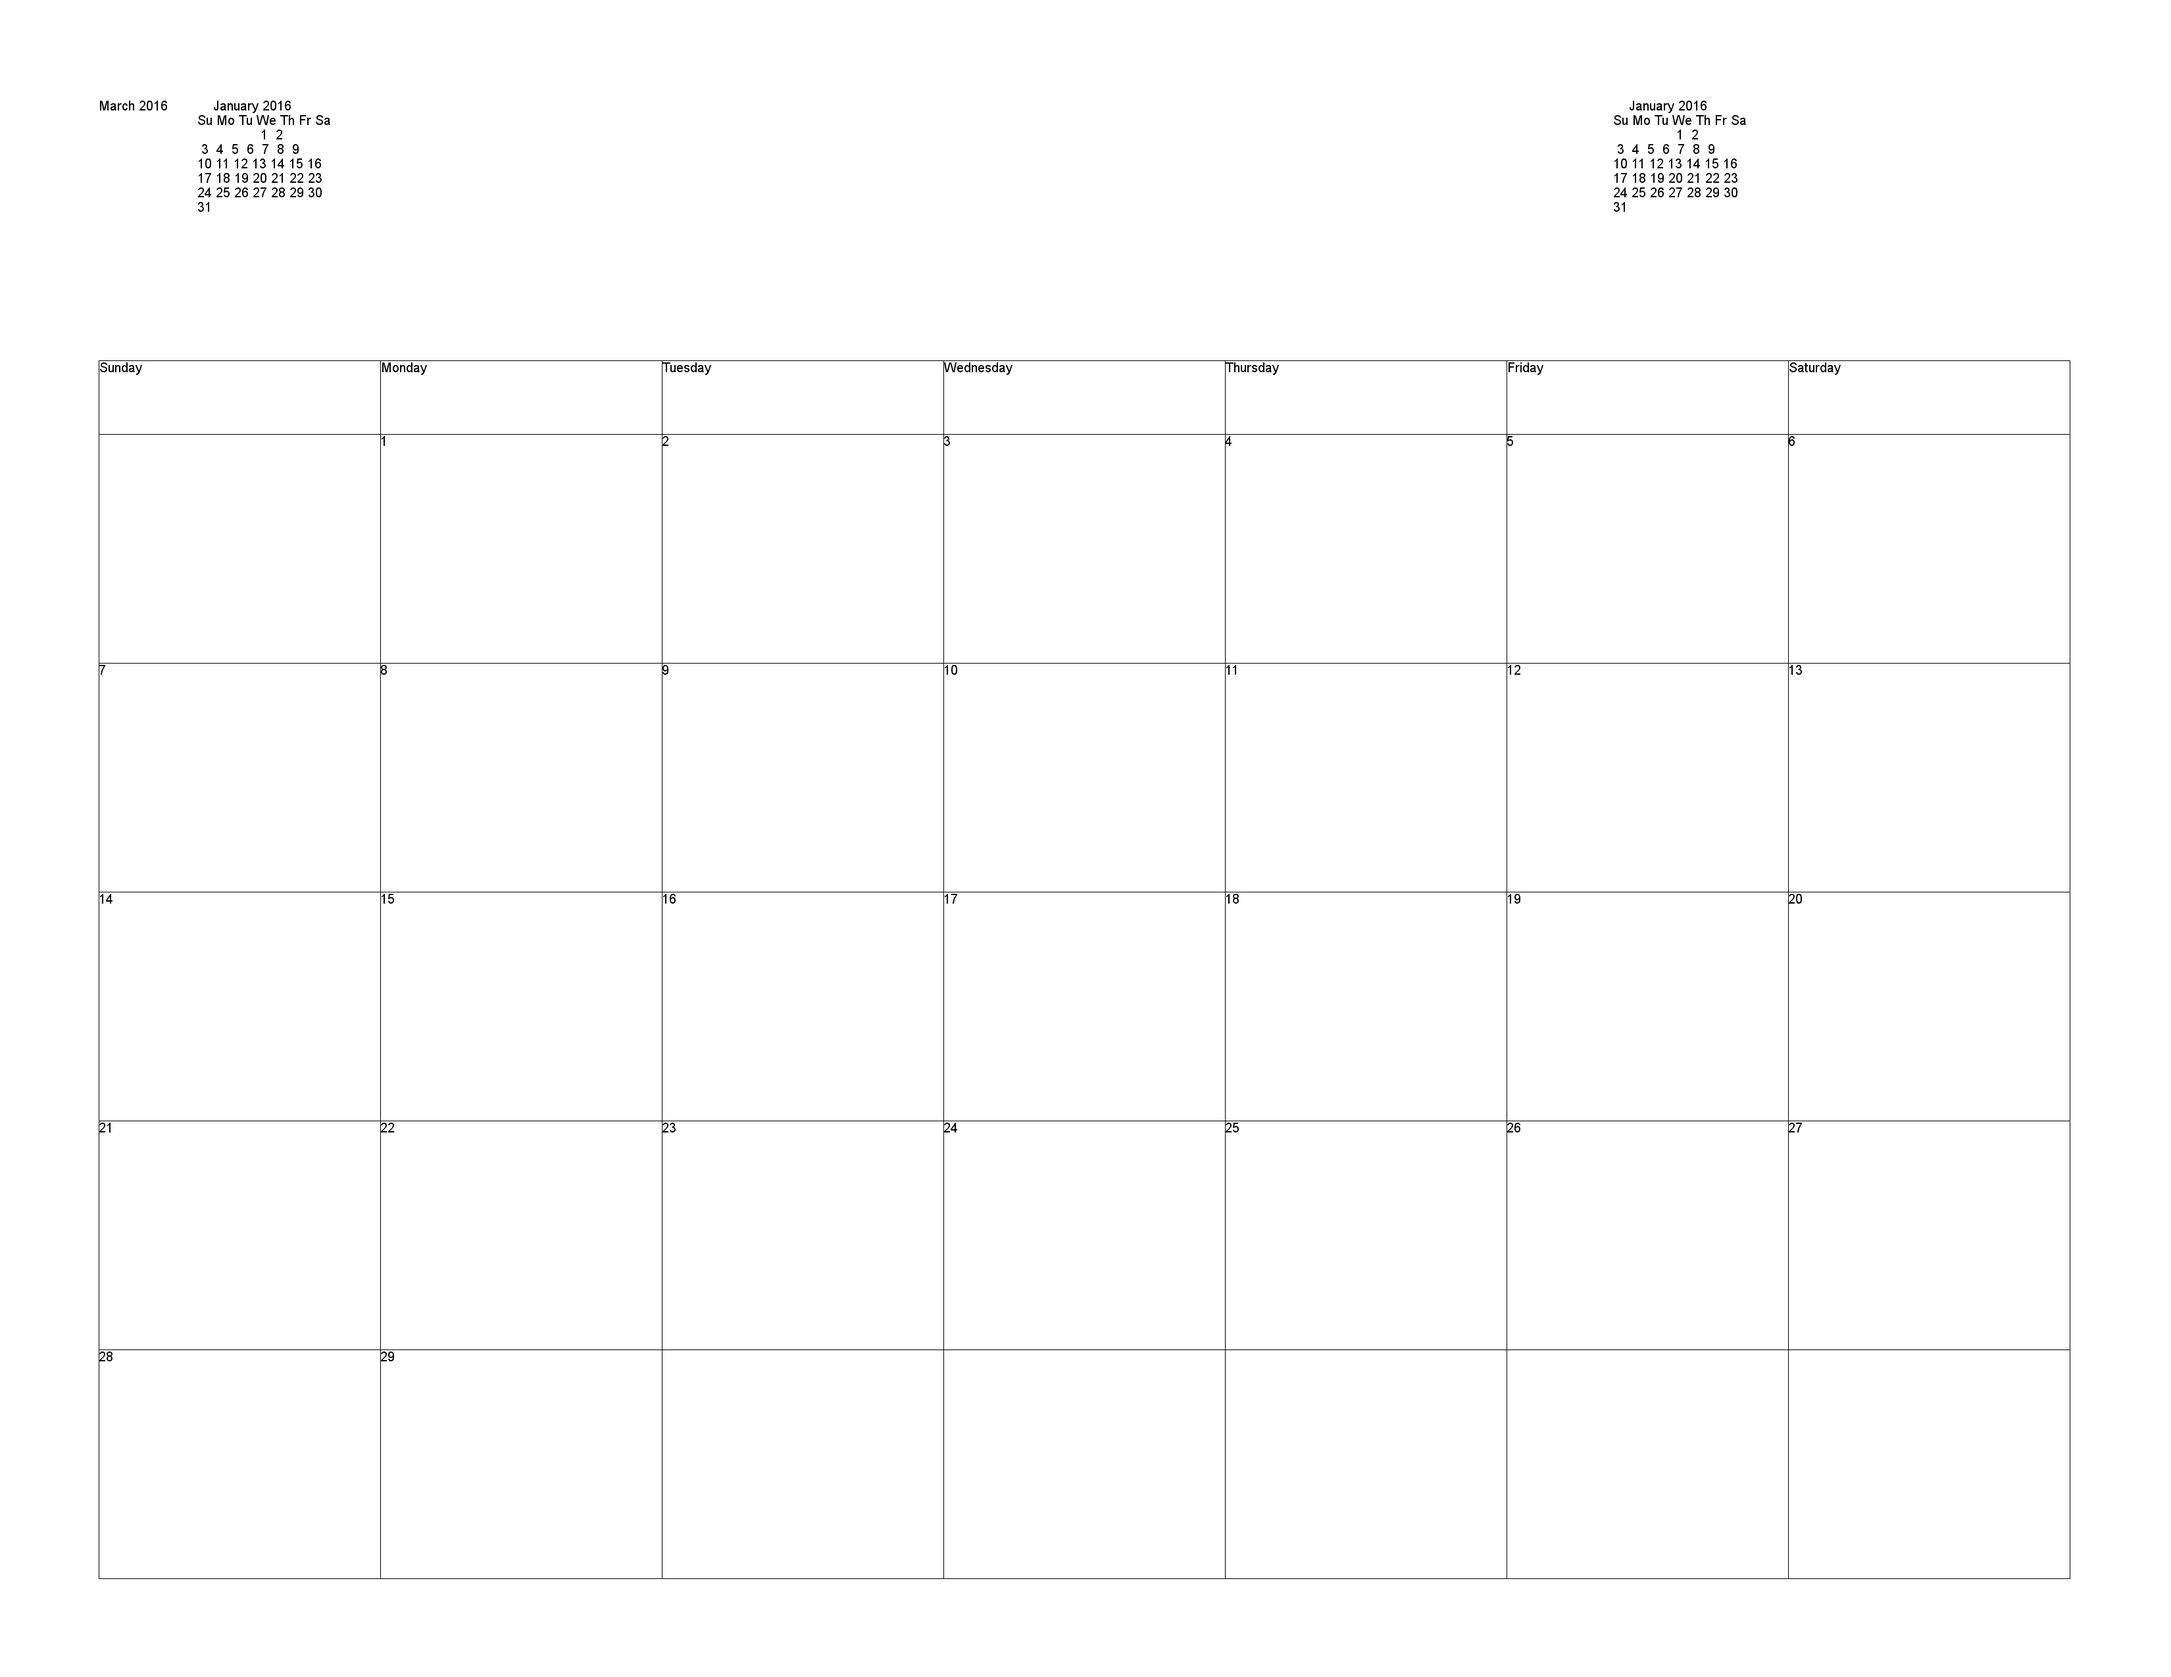
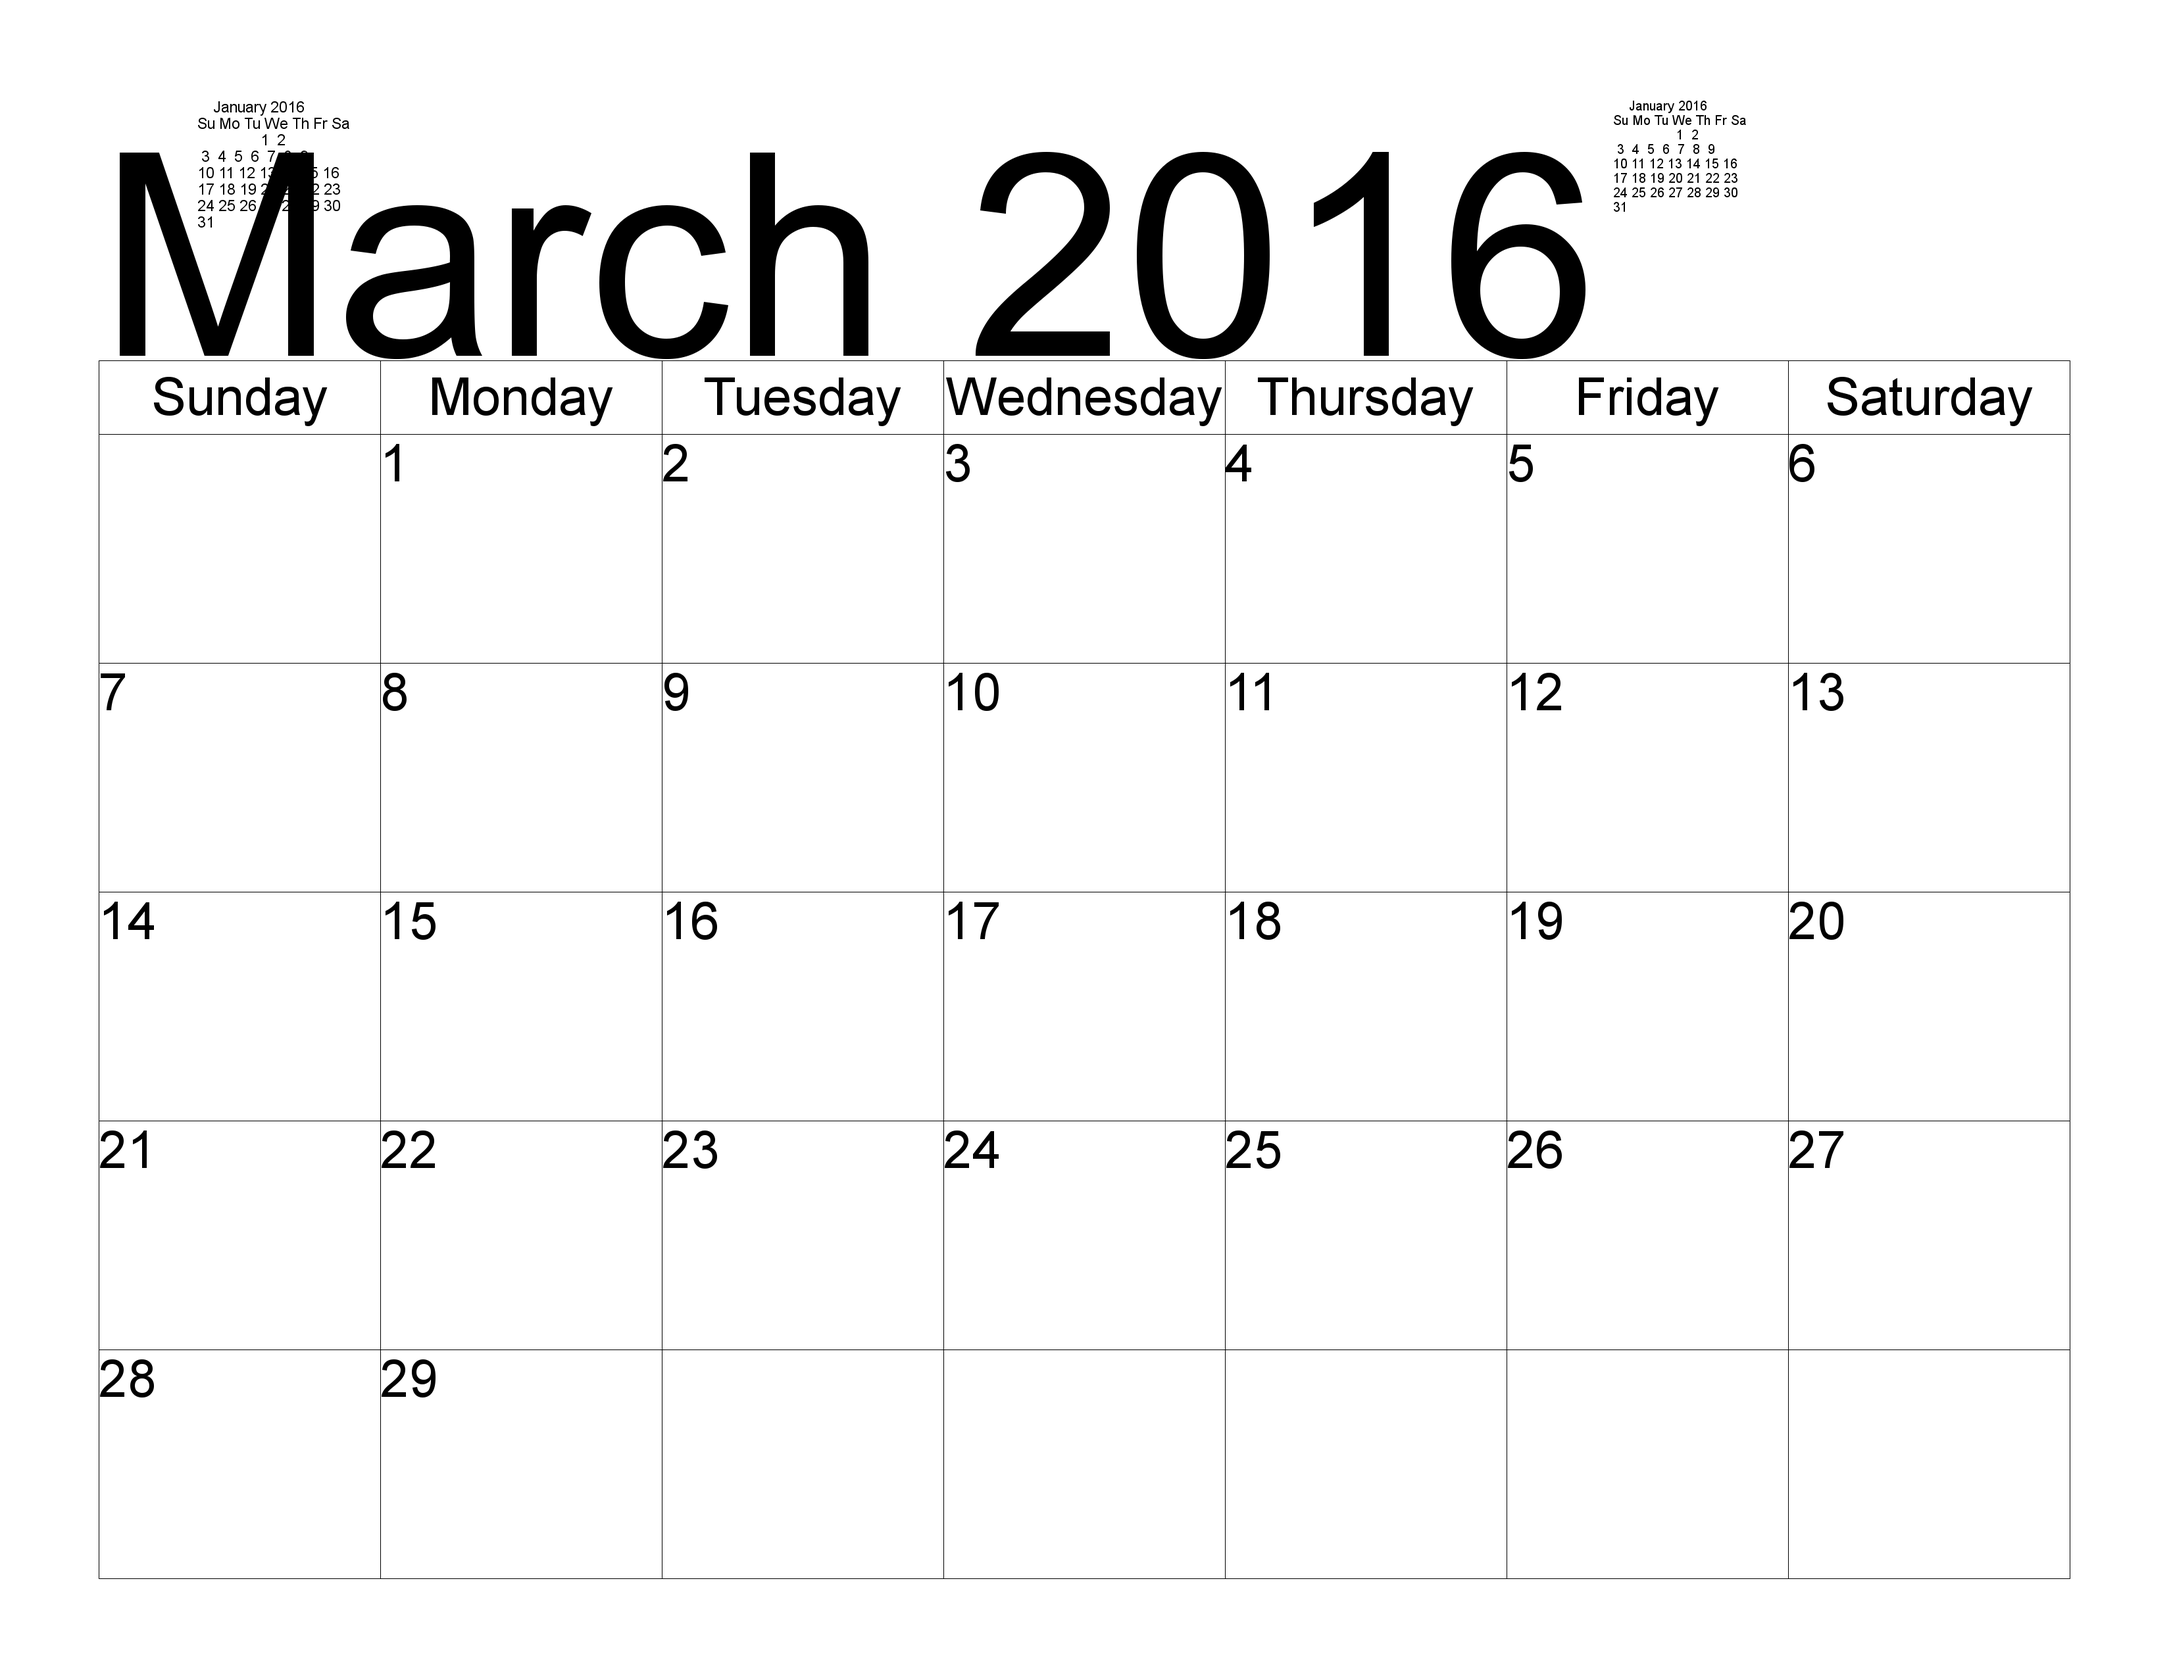
day font scailing working

diff --git a/CalendarPy.py b/CalendarPy.py
@@ -12,6 +12,23 @@ def MonthText(Month):
     months =["January","February","March","April","May","June", "July","August","September","October","November","December"]
     return months[Month]
 
+def MaxFont(draw,text,rect):
+    i=1
+    font=ImageFont.truetype("arial.ttf",i)
+    while (draw.textsize(text,font)[0]<rect[2]-rect[0] and
+           draw.textsize(text,font)[1]<rect[3]-rect[1]):
+        i+=1
+        font=ImageFont.truetype("arial.ttf",i)
+        #print(i)
+    font=ImageFont.truetype("arial.ttf",i-2)
+    return font
+
+def GetCentered(draw,text,font,rect):
+    W=rect[2]-rect[0]
+    H=rect[3]-rect[1]
+    w,h=draw.textsize(text,font)
+    return ( rect[0]+(W-w)//2,rect[1]+(H-h)//2 )
+
 def Calendar(year,month):
     dpi = 300
     
@@ -21,7 +38,7 @@ def Calendar(year,month):
 
     cal=Image.new("RGB",(Width,Height),"white")
     draw=ImageDraw.Draw(cal)
-
+    
     Header = Height//5
     HeaderCellWidth=(Width-2*Margin)//7
     HeaderCellHeight =(Height-2*Margin)//20
@@ -30,7 +47,16 @@ def Calendar(year,month):
     PrevSmallCalendarRect = (2*Margin, Margin, Header + Margin - HeaderCellHeight, Header + Margin - HeaderCellHeight)
     smallPrevBegin=(2*Margin,Margin)
     smallPrev=calendar.TextCalendar(6).formatmonth(year,month-1)
-    font=ImageFont.truetype("arial.ttf",20)
+
+    #i=1
+    #font=ImageFont.truetype("arial.ttf",i)
+    #while (draw.textsize(smallPrev,font)[0]<PrevSmallCalendarRect[2]-PrevSmallCalendarRect[0] and
+    #       draw.textsize(smallPrev,font)[1]<PrevSmallCalendarRect[3]-PrevSmallCalendarRect[1]):
+    #    i+=1
+    #    font=ImageFont.truetype("arial.ttf",i)
+    #    print(i)
+    #font=ImageFont.truetype("arial.ttf",i-1)
+    font=MaxFont(draw,smallPrev,PrevSmallCalendarRect)
     draw.text(smallPrevBegin,smallPrev,(0,0,0),font=font)
 
     #Draw small next month
@@ -41,10 +67,14 @@ def Calendar(year,month):
     draw.text(smallNextBegin,smallPrev,(0,0,0),font=font)
 
 
+    DaysLabelRect = (Margin + HeaderCellWidth * 3, Header + Margin - HeaderCellHeight, Margin + HeaderCellWidth * 3 + HeaderCellWidth, Header + Margin - HeaderCellHeight + HeaderCellHeight)
+    font=MaxFont(draw,DayText(3),DaysLabelRect)
     for Day in range(7):
         DaysLabelRect = (Margin + HeaderCellWidth * Day, Header + Margin - HeaderCellHeight, Margin + HeaderCellWidth * Day + HeaderCellWidth, Header + Margin - HeaderCellHeight + HeaderCellHeight)
         draw.rectangle(DaysLabelRect,outline=(0,0,0))
-        draw.text(DaysLabelRect,DayText(Day),(0,0,0),font=font)
+        #draw.text(DaysLabelRect,DayText(Day),(0,0,0),font=font)
+        draw.text(GetCentered(draw,DayText(Day),font,DaysLabelRect),DayText(Day),(0,0,0),font=font)
+        
 
 
     Days=calendar.Calendar(6).monthdayscalendar(year,month)
@@ -65,8 +95,10 @@ def Calendar(year,month):
 
 
     #Draw Header
+    HeaderText=MonthText(month)+" " + str(year)
     HeaderRect = (Margin, Margin, Margin + Width - 2 * Margin, Margin + Header - HeaderCellHeight)
-    draw.text(HeaderRect,MonthText(month)+" " + str(year),(0,0,0),font=font)
+    font=MaxFont(draw,HeaderText,HeaderRect)
+    draw.text(HeaderRect,HeaderText,(0,0,0),font=font)
 
 
 
